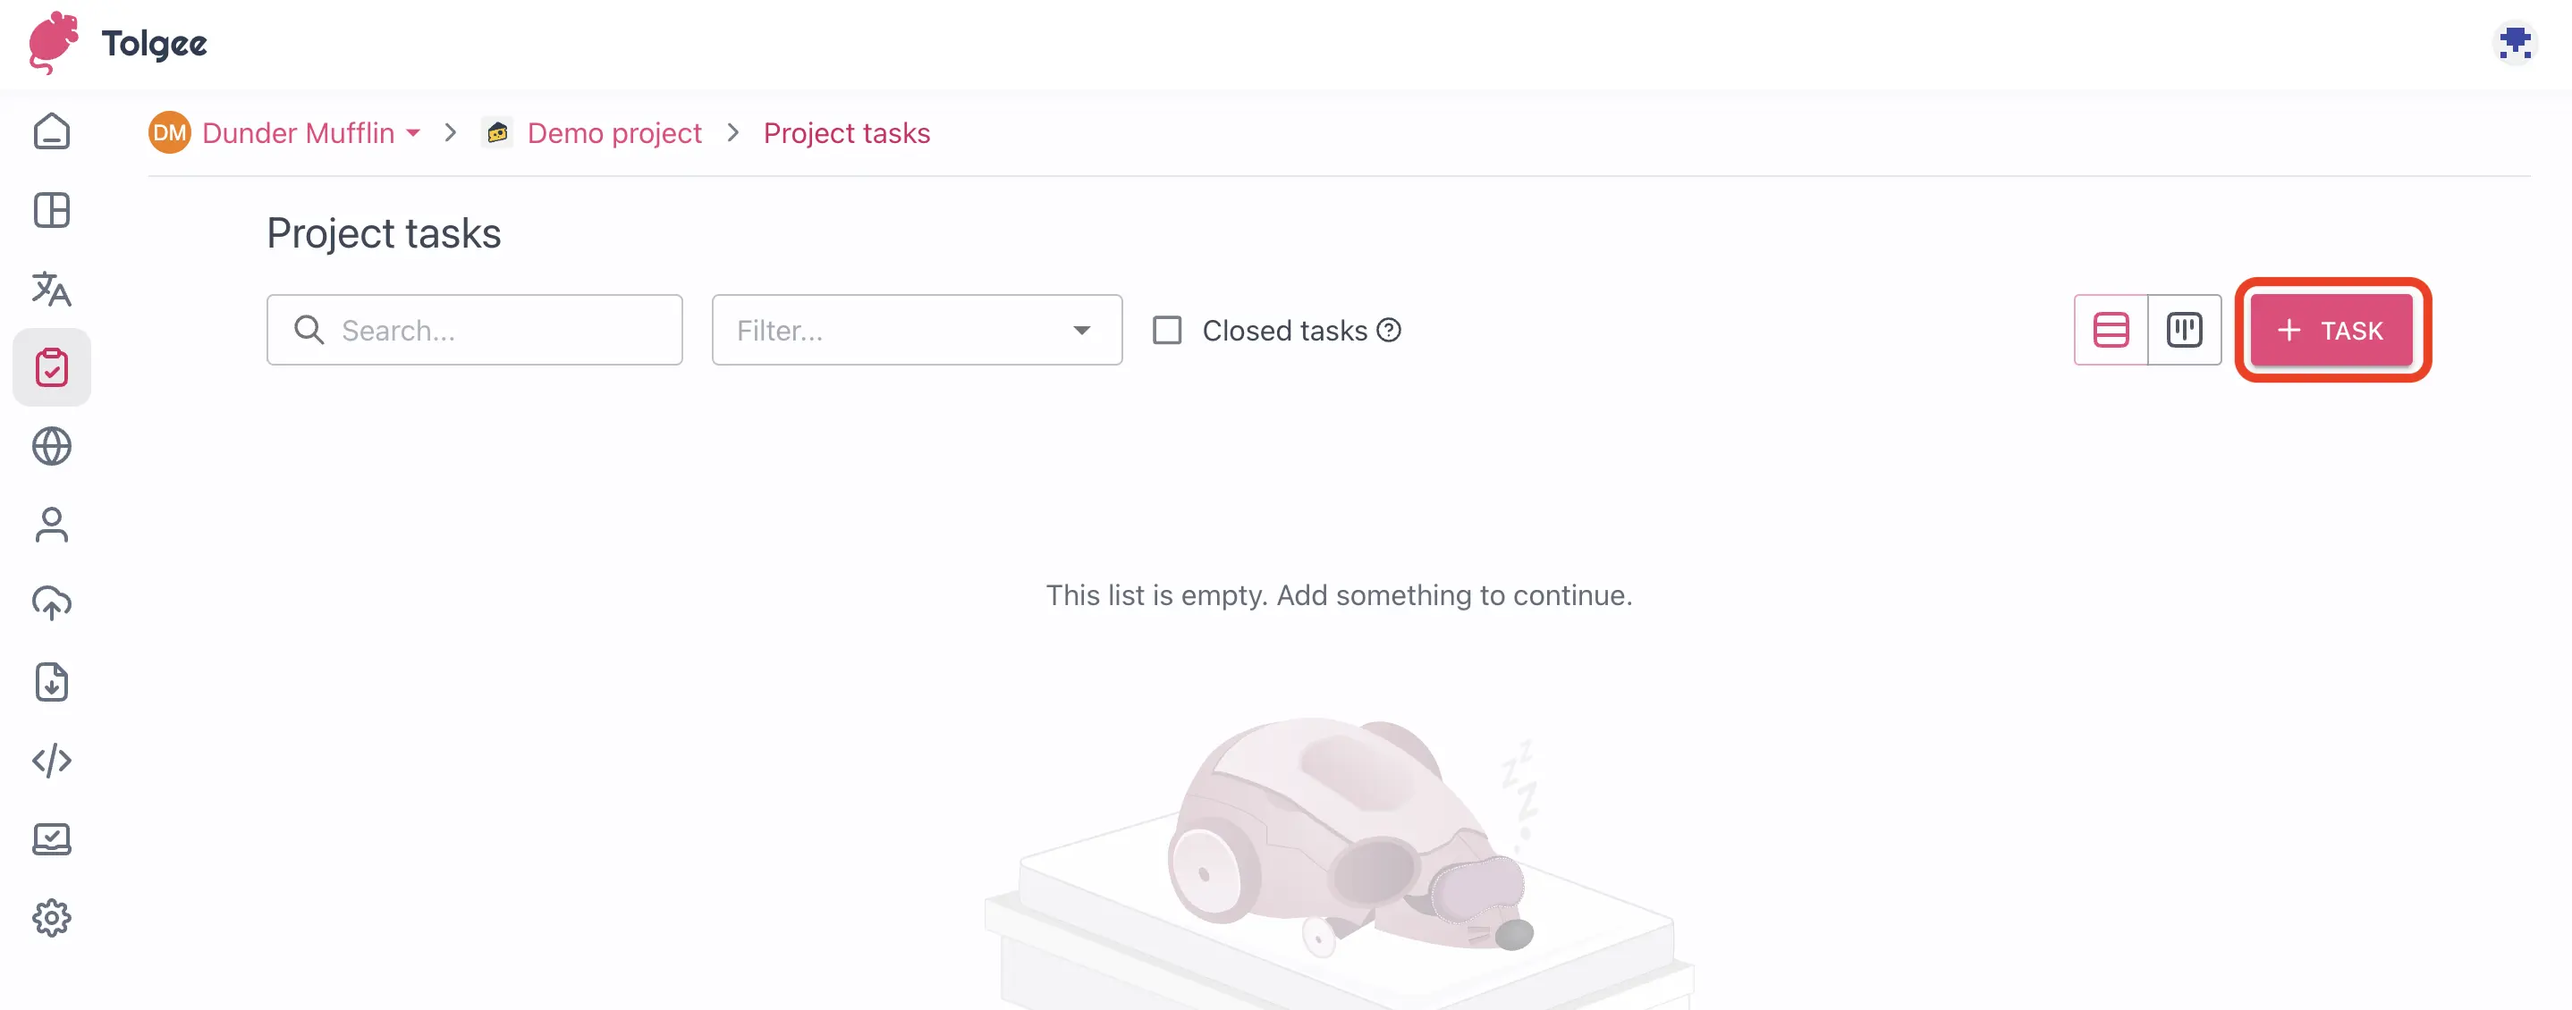
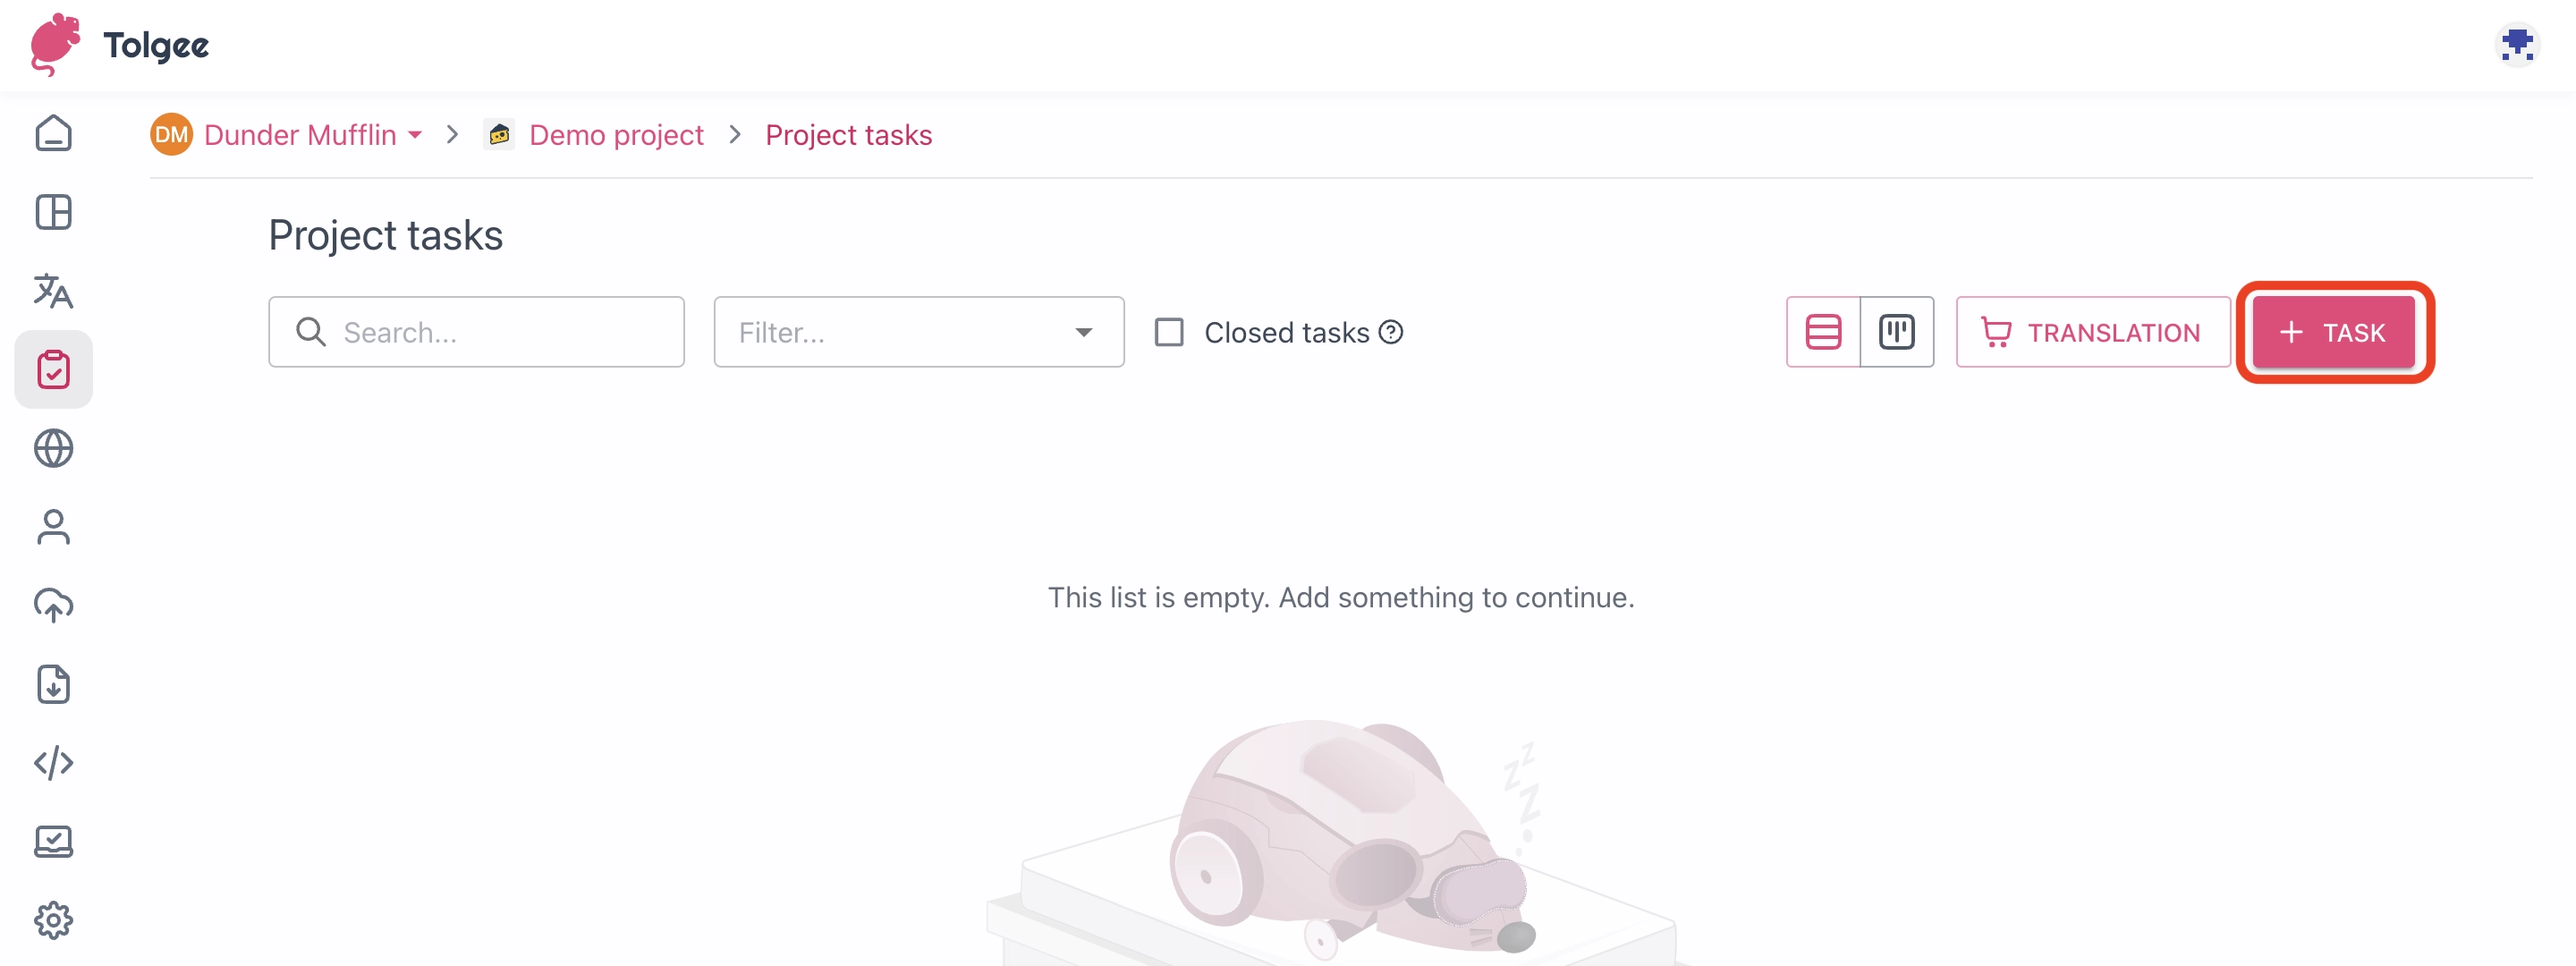
feat: order translation docs (#746)

diff --git a/sidebarPlatform.js b/sidebarPlatform.js
@@ -19,6 +19,7 @@ module.exports = {
         'projects_and_organizations/machine-translation-settings',
         'projects_and_organizations/ai-translation-customization',
         'projects_and_organizations/tasks',
+        'projects_and_organizations/order_translation',
         'projects_and_organizations/members',
         'projects_and_organizations/import',
         'projects_and_organizations/export',
